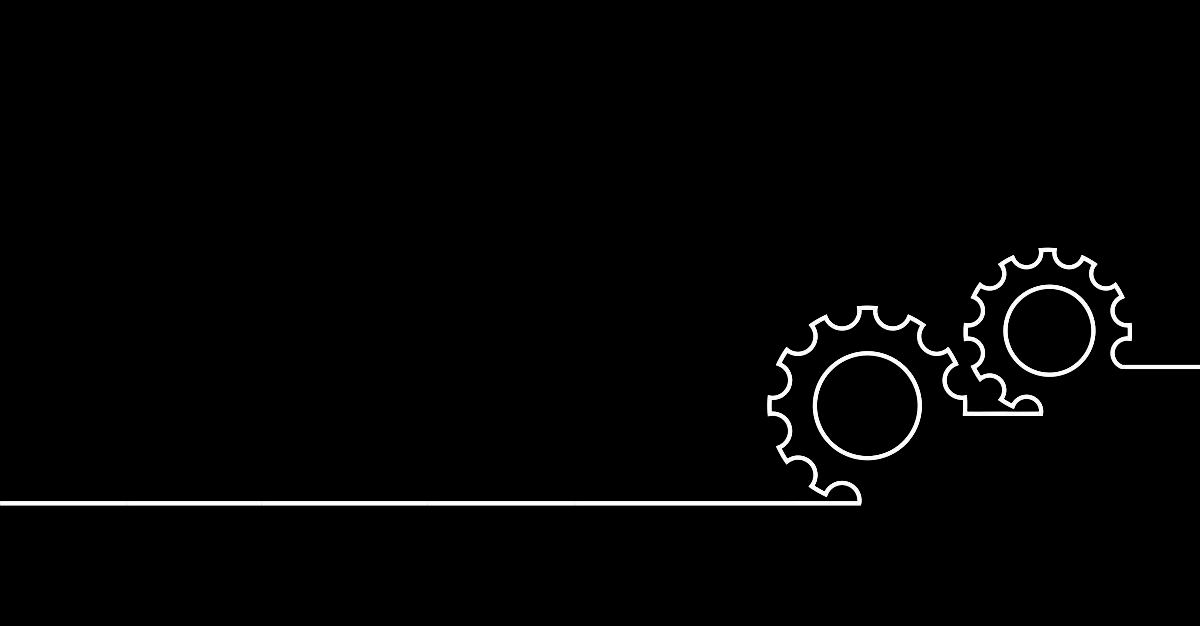
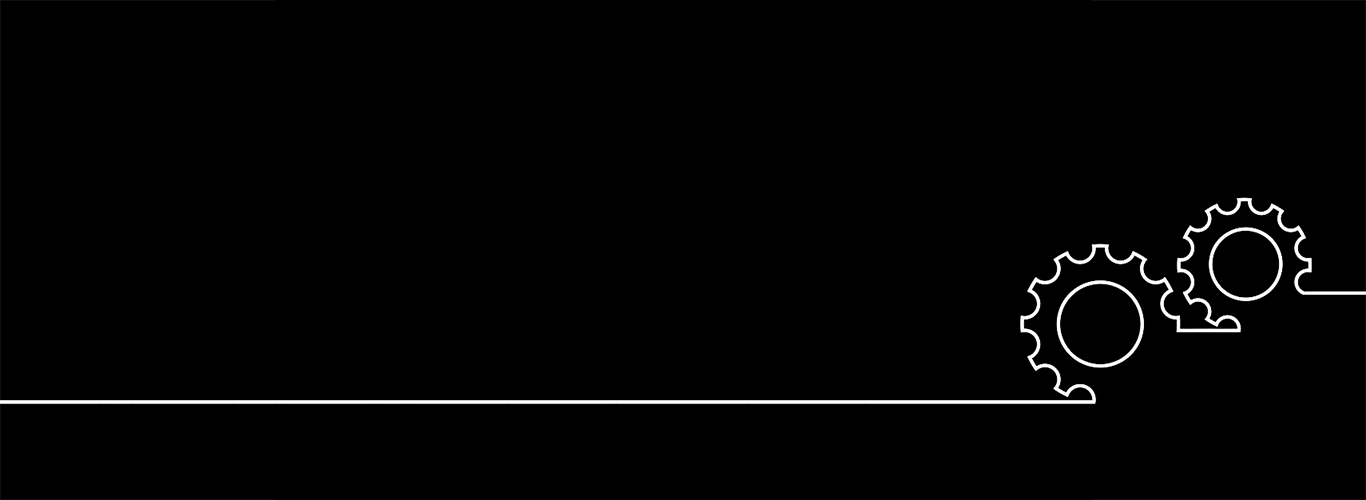
skdsk

Changed region(s): [[0.6475, 0.39, 0.9867, 0.81], [0.6475, 0.54, 0.7092, 0.63], [0.6167, 0.63, 0.6475, 0.66]]

diff --git a/index.html b/index.html
@@ -7,7 +7,7 @@
     <link rel="stylesheet" href="./css/style.css">
     <link rel="stylesheet" href="https:// maxcdn.bootstrapcdn.com/bootstrap/3.3.7/css/bootstrap.min.css">
     <link rel="stylesheet" href="https://maxcdn.bootstrapcdn.com/bootstrap/3.3.7/css/bootstrap-theme.min.css">
-    <script src="https://maxcdn.bootstrapcdn.com/bootstrap/3.3.7/js/bootstrap.min.js"></script>
+    <src="https://maxcdn.bootstrapcdn.com/bootstrap/3.3.7/js/bootstrap.min.js"></script>
     <link rel="stylesheet" href="https://cdnjs.cloudflare.com/ajax/libs/font-awesome/4.7.0/css/font-awesome.min.css">
     <link rel="stylesheet" href="https://cdnjs.cloudflare.com/ajax/libs/owl-carousel/1.3.3/owl.carousel.min.css">
     <link rel="stylesheet" href="https://cdnjs.cloudflare.com/ajax/libs/owl-carousel/1.3.3/owl.theme.min.css">
@@ -32,14 +32,14 @@
                 <div class="star star6"></div>
                 <div class="star star7"></div>
                 <div class="star star8"></div>
-                <div>
+                <div class="engrenagem">
                     <h1>coltech</h1>
                     <p class=" empresajr line typing-animation">Empresa jr de Engenharia mecânica, Elétrica e Computação</p>
                 </div>
             </section>
         </div>
         <div class="logo">
-            <a href="index.html"><img class="displayed" src="./img/logo coltech.png" alt="" style="width: 74px; height: px;"></a>
+            <a href="index.html"><img class="displayed" src="./img/logo coltech.png" alt="" style="width: 74px;"></a>
         </div>
         <input type="checkbox" id="bt_menu">
         <div class="menuu">
@@ -51,14 +51,14 @@
                     <li><a href="#">História</a></li>
                     <li><a href="#">Serviços</a></li>
                     <li><a href="#">Portifólio</a></li>
-                    <li><a href="#">Contatoos</a></li>
+                    <li><a href="#">Contatos</a></li>
                 </ul>
             </nav>
         </div>
         <div class="apresentação">
             <div class="sobrenós">
                 <nav class="nav_tabs">
-                    <div class="titulo" style="margin-top: 25em;">
+                    <div class="titulo" style="margin-top: 31em;">
                         <h2>apresentação</h2>
                     </div>
                     <ul style="margin-bottom: 4em;">
@@ -246,7 +246,7 @@
                                 </div>
                                 <h3 class="title">Ursula</h3>
                                 <span class="post">Gerente</span>
-                                <p class="description"> Time de Engenharia mecânica</p>
+                                <p class="deion"> Time de Engenharia mecânica</p>
                                 <a href="index.html"><img class="linkdin" src="./img/linkdin.png" alt="" style="width: 40px; height: 40px;"></a>
                             </div>
                         </div>
@@ -257,7 +257,7 @@
                                 </div>
                                 <h3 class="title">Ursula</h3>
                                 <span class="post">Gerente</span>
-                                <p class="description"> Time de Engenharia mecânica</p>
+                                <p class="deion"> Time de Engenharia mecânica</p>
                                 <a href="index.html"><img class="linkdin" src="./img/linkdin.png" alt="" style="width: 40px; height: 40px;"></a>
                             </div>
                         </div>
@@ -268,7 +268,7 @@
                                 </div>
                                 <h3 class="title">Ursula</h3>
                                 <span class="post">Gerente</span>
-                                <p class="description"> Time de Engenharia mecânica</p>
+                                <p class="deion"> Time de Engenharia mecânica</p>
                                 <a href="index.html"><img class="linkdin" src="./img/linkdin.png" alt="" style="width: 40px; height: 40px;"></a>
                             </div>
                         </div>
@@ -279,7 +279,7 @@
                                 </div>
                                 <h3 class="title">Ursula</h3>
                                 <span class="post">Gerente</span>
-                                <p class="description"> Time de Engenharia mecânica</p>
+                                <p class="deion"> Time de Engenharia mecânica</p>
                                 <a href="index.html"><img class="linkdin" src="./img/linkdin.png" alt="" style="width: 40px; height: 40px;"></a>
                             </div>
                         </div>
@@ -290,7 +290,7 @@
                                 </div>
                                 <h3 class="title">Ursula</h3>
                                 <span class="post">Gerente</span>
-                                <p class="description"> Time de Engenharia mecânica</p>
+                                <p class="deion"> Time de Engenharia mecânica</p>
                                 <a href="index.html"><img class="linkdin" src="./img/linkdin.png" alt="" style="width: 40px; height: 40px;"></a>
                             </div>
                         </div>
@@ -301,12 +301,12 @@
                                 </div>
                                 <h3 class="title">Ursula</h3>
                                 <span class="post">Gerente</span>
-                                <p class="description"> Time de Engenharia mecânica</p>
+                                <p class="deion"> Time de Engenharia mecânica</p>
                                 <a href="index.html"><img class="linkdin" src="./img/linkdin.png" alt="" style="width: 40px; height: 40px;"></a>
                             </div>
                         </div>
                         <div class="testimonial">
-                            <p class="description"> Treinne skdnadakmdnajkdbdjbnjabjhbn nas</p>      
+                            <p class="deion"> Treinne skdnadakmdnajkdbdjbnjabjhbn nas</p>      
                         </div>
                     </div>
                 </div>
@@ -415,5 +415,3 @@
         });
     </script>
 </body>
-
-    

diff --git a/css/style.css b/css/style.css
@@ -16,51 +16,6 @@ body { overflow-x: hidden; background-color: #000200;}
     box-sizing: border-box;
 
 }
-/*subtitulo*/
-
-/*
-.empresajr{
-    display: flex;
-    align-items: center;
-    justify-content: center;
-    height: 6vh;
-}
-
-.line{
-    border-right: 2px solid orange;
-    color: orange;
-    font-family: 'Lato', sans-serif;
-    font-size: 1.3em;
-    text-align: center;
-    margin: 0 auto;
-    white-space: nowrap;
-    overflow: hidden;
-}
-
-
-@keyframes blinkCursor{
-    from {
-        border-right-color: orange);
-    }
-    to{
-        border-right-color: transparent;
-    }
-}
-
-.typing-animation{
-    animation: blinkCursor 500ms steps(40) infinite normal, 
-    typing 3s steps(60) 1s normal both;
-}
-
-@keyframes typing{
-    from{
-        width: 0em;
-    }
-    to{
-        width: 27em;
-    }
-}
-*/
 
 .line{
     color: orange;
@@ -80,21 +35,25 @@ body { overflow-x: hidden; background-color: #000200;}
     display: flex;
     justify-content: center;
     align-items: center;
-    background-image: url(../img/engrenagem.png);
-    background-size: 82%;
+    background-image: url(../img/banner\ 5.png);
+    background-size: 100%;
     background-repeat: no-repeat;
-    background-position: right;
-    background-position-y: -1em;
-    background-position-x: 19em;
+}
+
+
+.engrenagem{
+    width: 100%;
 }
 
 .estrelinhas h1{
+    text-align: center;
     position: static;
     color: transparent;
     font-weight: 900;
     font-size: 8em;
-    -webkit-text-stroke: 2px #fff;
+    -webkit-text-stroke: 2px orange;
     text-transform: uppercase;
+    
 }
 
 .estrelinhas .star{
@@ -193,7 +152,7 @@ IMG.displayed {
 }
 
 .cabecalho {
-    margin-top: 23px;
+    margin-top: -5px;
     width: 100%;  
 }
 
@@ -220,7 +179,7 @@ IMG.displayed {
     width: 24.8%;
     float: left;
     border-left: orange solid 0.5px;
-    
+    background-color: rgba(0, 0, 0, 0.4);
 }
 
 .menu a{
@@ -554,7 +513,7 @@ label[for="bt_menu"]{
 
 .portifólios .card:hover .face.face1{
     transform: translateY(-100%) rotateX(90deg);
-    background: #ff0057;
+    background: orange;
 }
 
 
@@ -655,7 +614,7 @@ label[for="bt_menu"]{
     border-radius: 20px;
 }
 
-.description{
+.deion{
     margin-bottom: 7em;
 }
 
@@ -828,11 +787,6 @@ label[for="bt_menu"]{
 @media(max-width:480px) {
     body { overflow-x: hidden; }
 
-    .estrelinhas {
-        background-size: 88%;
-        background-position-y: 21.2em;
-        background-position-x: 57px;
-    }
 
     .empresajr{
         height: 15vh;
@@ -1000,18 +954,94 @@ label[for="bt_menu"]{
     
 }
 
-@media(min-width:481px) and (max-width:1024px){
+@media(min-width:481px) and (max-width:1030px){
 
-    .estrelinhas {
-        background-size: 88%;
-        background-position-y: 12em;
-        background-position-x: 11em;
-    }
+    
 
     .estrelinhas h1{
         font-weight: 900;
         font-size: 6em;
-        margin-top: -3em;
+        margin-top: 0;
+
+    }
+
+    .line{
+        font-size: 16px;
+    }
+
+    /*portifólios*/
+
+    .nossoportifólio{
+        margin-bottom: -10em;
+    }
+
+    .nossosportifólios h2{
+        margin-bottom: -1em;
+    }
+
+    .portifólios{
+        margin-top: 3em;
+        margin-bottom: 12em;
+    }
+
+    .portifólios .card {
+        width: 208px;
+        height: 166px;
+        margin: 6px;
+    }
+
+    /*nossosserviços*/
+
+    .nossosserviços {
+        margin-top: 2em !important;
+    }
+
+    .contact{
+        padding: 50px;
+    }
+
+    .contate{
+        flex-direction: column;
+    }
+
+    .informações{
+        display: block;
+    }
+
+    .contactform{
+        width: 100%;
+        align-items: center;
+    }
+
+    .contactform{
+        width: 100%;
+        align-items: center;
+        height: 80em;
+    }
+
+    .imagemlocalização {
+        width: 365px !important;
+    }
+
+    .localização {
+        margin-top: -56em;
+    }
+
+    .contactform h2 {
+        margin-top: -5em;
+    }
+
+}
+
+
+
+@media(min-width:1031px) and (max-width:1200px){
+
+
+    .estrelinhas h1{
+        font-weight: 900;
+        font-size: 6em;
+        margin-top: 0em;
 
     }
 
@@ -1077,3 +1107,11 @@ label[for="bt_menu"]{
     }
 
 }
+
+@media(min-width:1200px) and (max-width:1300px){
+    
+
+    
+
+}
+

diff --git a/js/java.js b/js/java.js
@@ -1,0 +1,13 @@
+<script type="text/javascript">
+        document.addEventListener("mousemove" , parallax);
+        function parallax(e) {
+            this.querySelectorAll('.layer').forEach(layer => {
+                const speed = layer.getAttribute('data-speed')
+
+                const x = (window.innerWidth - e.pageX*speed)
+                const y = (window.innerHeight - e.pageY*speed)
+
+                layer.style.transform = 'translateX(${x}px) translateY(${y}px)'
+            });
+        }
+</script>
